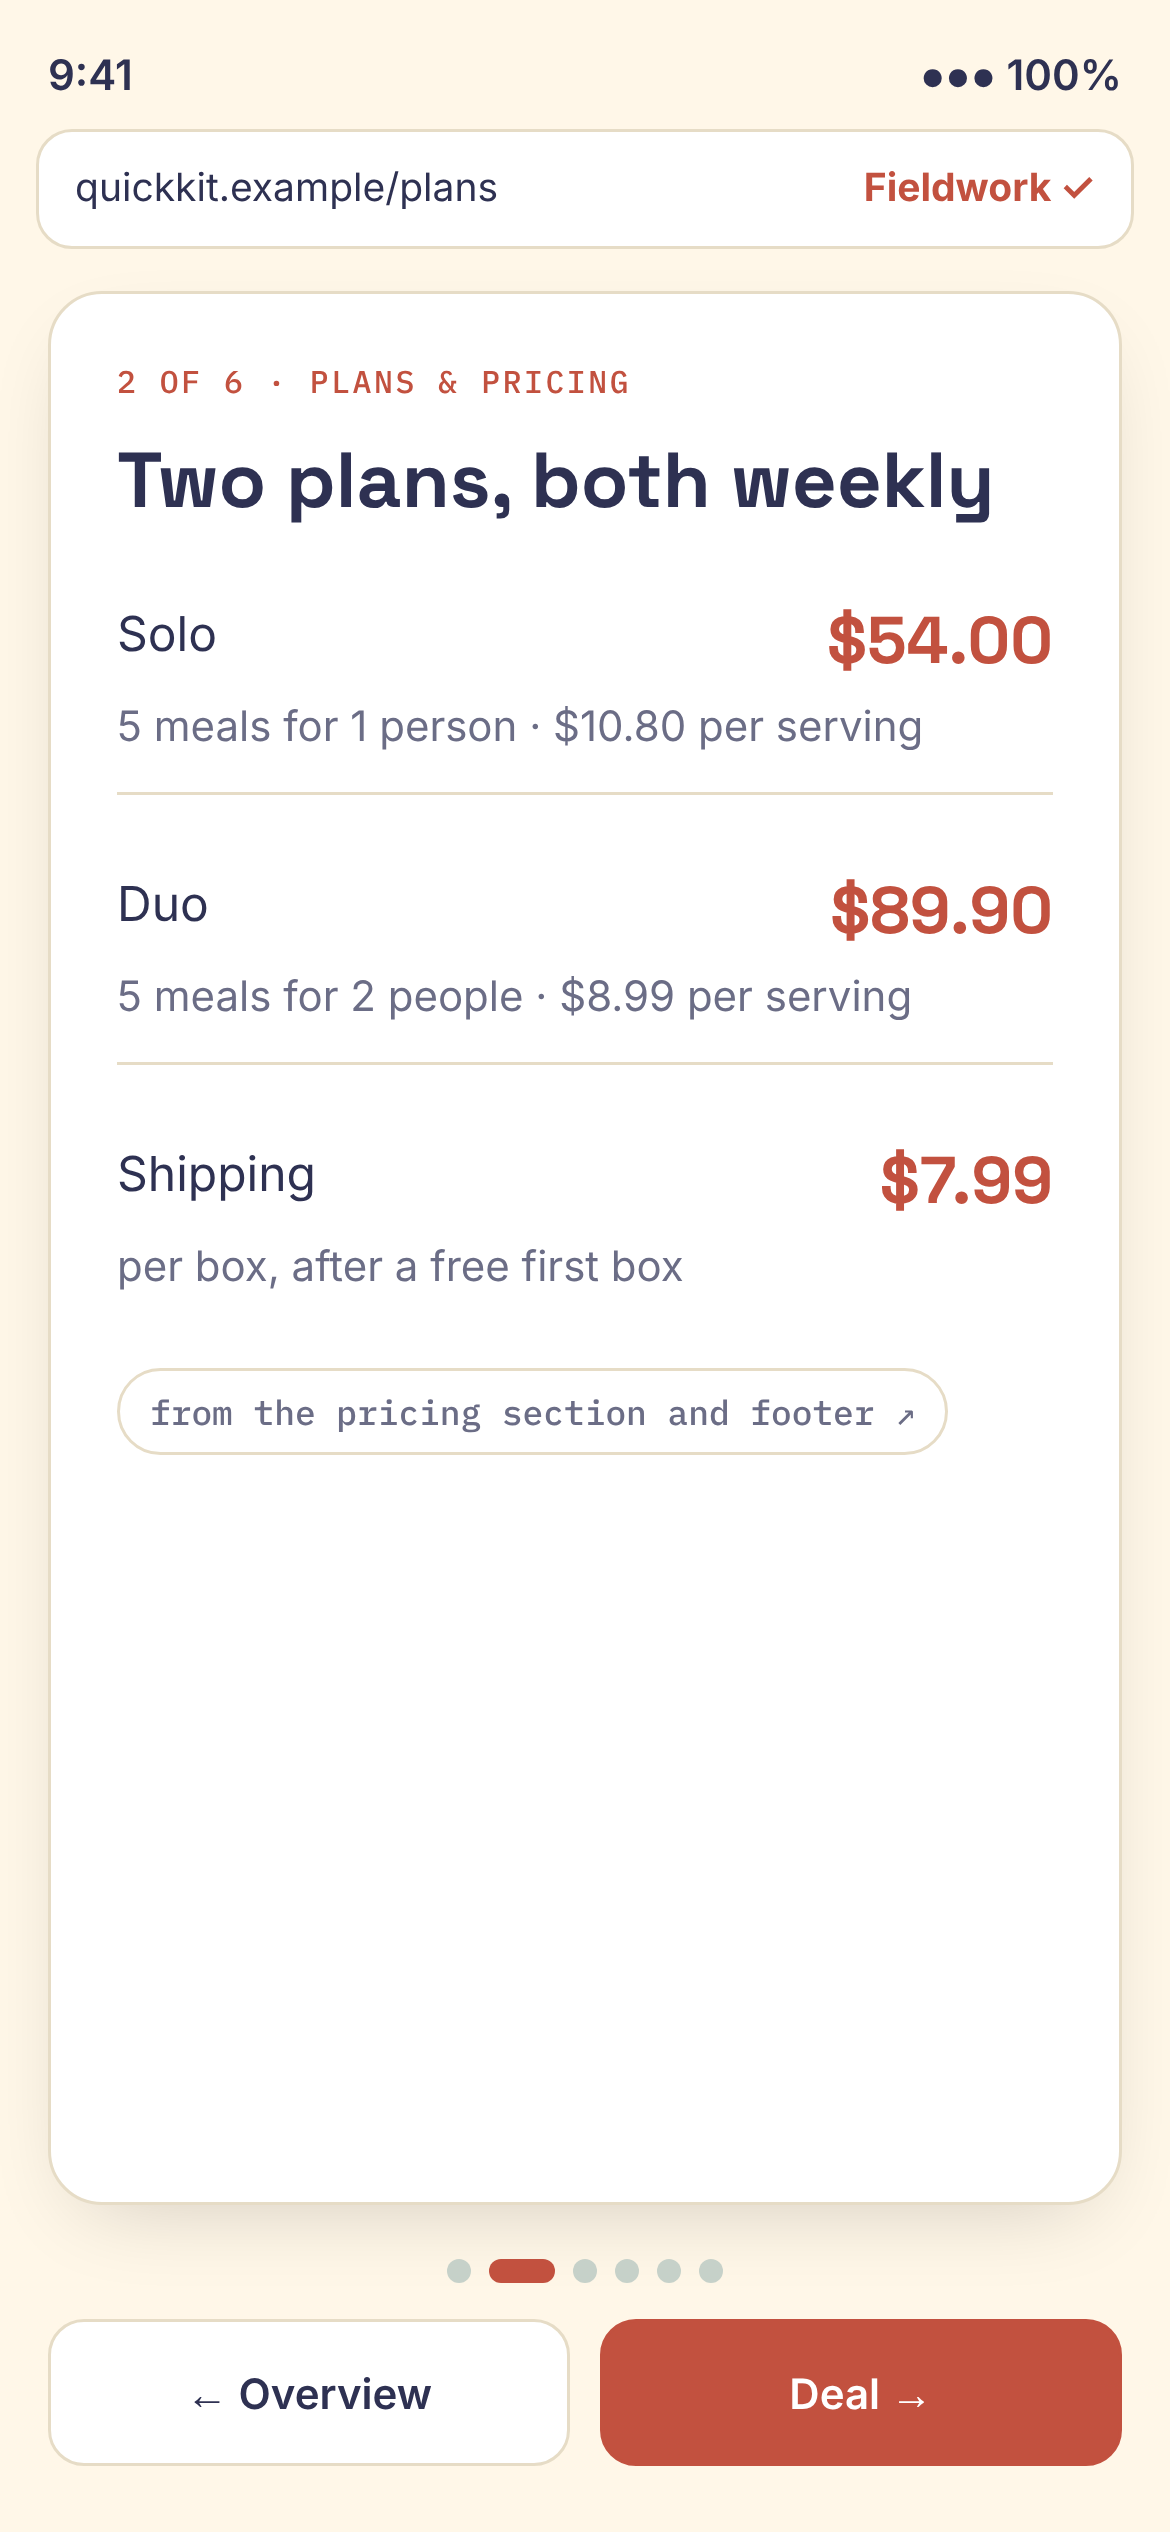
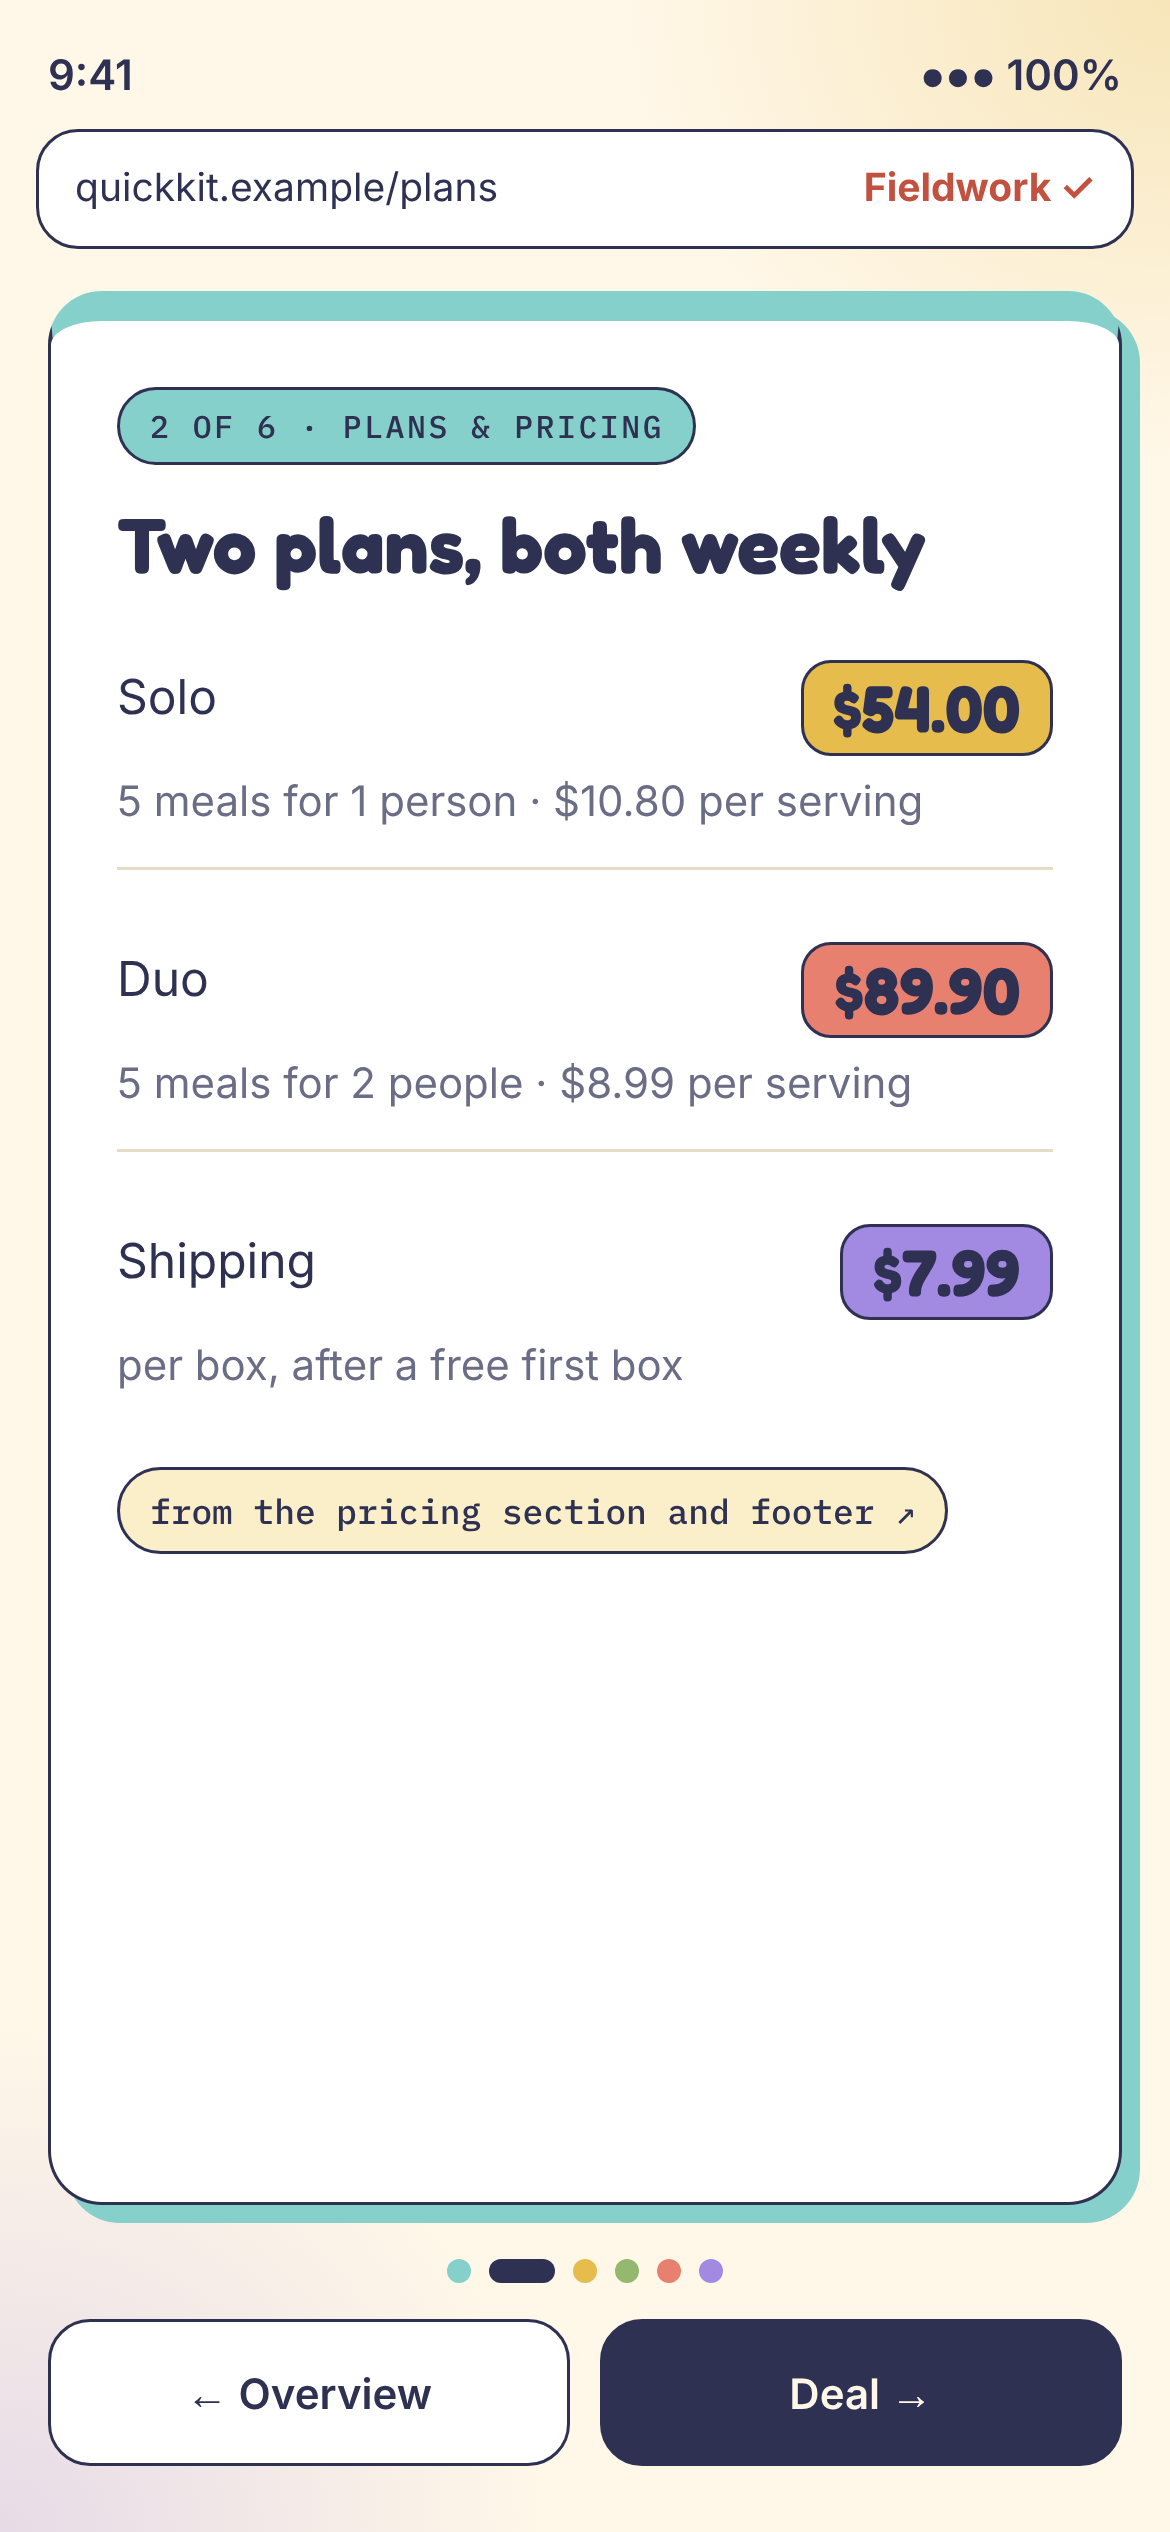
Fieldwork: phone layout and phone mockups in the new brand palette
Claude-Session: https://claude.ai/code/session_01EqzuJohQjQ55cYRxj1UmXr

diff --git a/fieldwork/mockups/extension.html b/fieldwork/mockups/extension.html
@@ -149,6 +149,22 @@ footer.sitefoot { background: #1b1b1b; color: #999; padding: 50px 80px; font-siz
 .legend div.it { display: grid; grid-template-columns: 34px 1fr auto; gap: 12px; align-items: center; background: #fff; border-radius: 10px; padding: 10px 14px; font-size: 15px; }
 .legend div.it i { font-style: normal; width: 26px; height: 26px; border-radius: 50%; background: var(--fw); color: #fff; font: 700 13px Space Grotesk; display: grid; place-items: center; }
 .legend div.it small { font: 500 12px IBM Plex Mono, monospace; color: var(--fw-muted); }
+
+/* Phone views in the brand palette */
+.phone { background: radial-gradient(260px 220px at 100% 0%, color-mix(in srgb, var(--mustard) 30%, transparent), transparent 70%), radial-gradient(260px 240px at 0% 100%, color-mix(in srgb, var(--lavender) 26%, transparent), transparent 70%), var(--fw-bg); }
+.phone .pcard { border: 1.5px solid var(--fw-ink); border-top: 10px solid var(--mint); border-radius: 18px; box-shadow: 6px 6px 0 var(--mint); }
+.phone.senior .pcard { border-top-color: var(--coral); box-shadow: 6px 6px 0 var(--coral); }
+.phone .pcard h2 { font-family: Fredoka, Inter, sans-serif; font-weight: 700; }
+.phone .tag { display: inline-block; justify-self: start; background: var(--mint); color: var(--fw-ink); border: 1.5px solid var(--fw-ink); border-radius: 999px; padding: 5px 10px; }
+.phone.senior .tag { background: var(--coral); }
+.phone .prow b { font-family: Fredoka, Inter, sans-serif; color: var(--fw-ink); background: var(--mustard); border: 1.5px solid var(--fw-ink); border-radius: 10px; padding: 2px 10px; }
+.phone .prow:nth-of-type(2) b { background: var(--coral); } .phone .prow:nth-of-type(3) b { background: var(--lavender); }
+.phone .dots i { background: #e6dcc6; } .phone .dots i:nth-child(1) { background: var(--mint); } .phone .dots i:nth-child(3) { background: var(--mustard); } .phone .dots i:nth-child(4) { background: var(--sage); } .phone .dots i:nth-child(5) { background: var(--coral); } .phone .dots i:nth-child(6) { background: var(--lavender); }
+.phone .dots i.on { background: var(--fw-ink); }
+.phone .pnav span { border: 1.5px solid var(--fw-ink); border-radius: 14px; }
+.phone .pnav span.p { background: var(--fw-ink); color: #fff7e8; }
+.phone .paddr { border: 1.5px solid var(--fw-ink); border-radius: 14px; }
+.phone .pill { border: 1.5px solid var(--fw-ink); background: var(--mustard-soft, #faefc9); color: var(--fw-ink); }
 </style></head><body>
 <div id="root"></div>
 <script>

diff --git a/fieldwork/index.html b/fieldwork/index.html
@@ -268,6 +268,11 @@ dialog textarea { min-height: 180px; resize: vertical; font-size: 13.5px; }
   .srccol { border-right: 0; border-bottom: 1px solid var(--line); }
   .phead, .pane, .srccol { padding-left: max(16px, env(safe-area-inset-left, 0px)); padding-right: max(16px, env(safe-area-inset-right, 0px)); }
   .ptitle h1, .pagetitle h1 { font-size: 27px; }
+  .tabs { flex-wrap: wrap; overflow: visible; gap: 6px; }
+  .tabs button { padding: 7px 12px; font-size: 13px; }
+  .ptitle { gap: 10px; }
+  .board { grid-auto-columns: minmax(240px, 85%); }
+  .notebook { padding: 22px 20px; }
   .plans { grid-template-columns: 1fr; }
   .reading, .report { padding: 20px; }
 }
